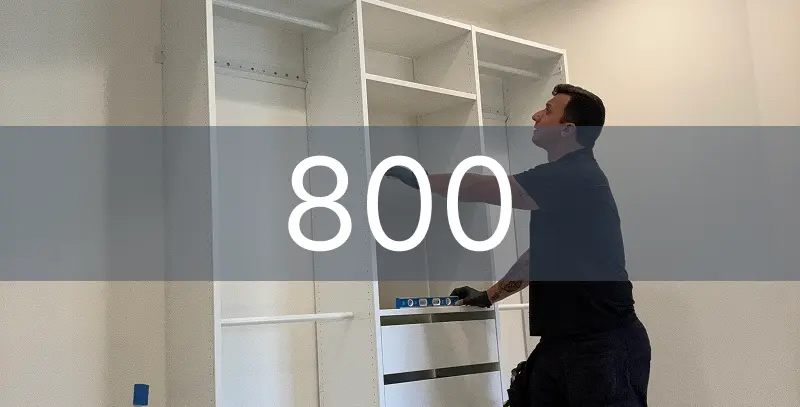
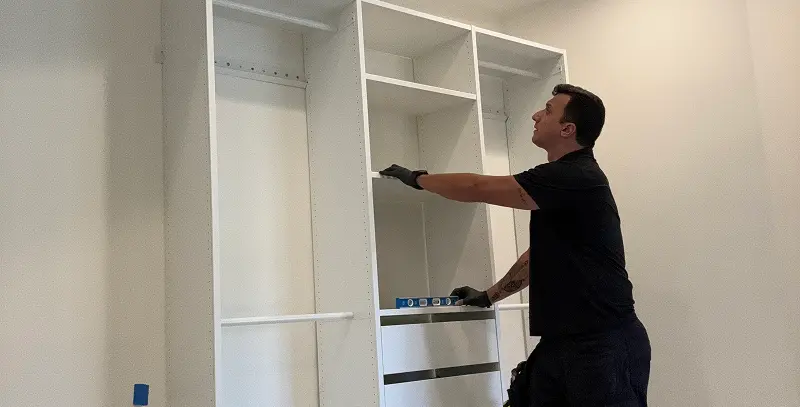
heroStatic: add PNG to mobile screen

diff --git a/hero-section.html b/hero-section.html
@@ -137,12 +137,6 @@
         <!-- hero image -->
         <div class="inner---bg-section">
           <div
-            style="
-              transform: translate3d(0px, 0px, 0px) scale3d(1, 1, 1.001)
-          rotateX(0deg) rotateY(0deg) rotateZ(0deg) skew(0deg, 0deg);
-              transform-style: preserve-3d;
-              opacity: 1;
-            "
             class="position-relative _w-h-100"
           >
             <picture>
@@ -155,11 +149,11 @@
           media="(min-width: 1080px)"
               />
               <source
-          srcset="/assets/hero/800.webp"
+          srcset="/assets/hero/800.png"
           media="(min-width: 767px)"
               />
               <source
-          srcset="/assets/hero/800.webp"
+          srcset="/assets/hero/800.png"
           media="(min-width: 300px)"
               />
               <img
